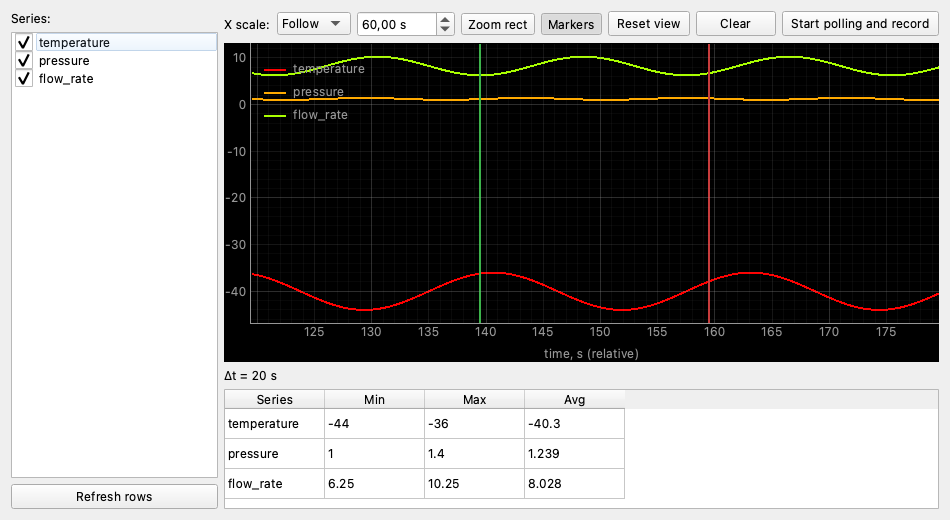
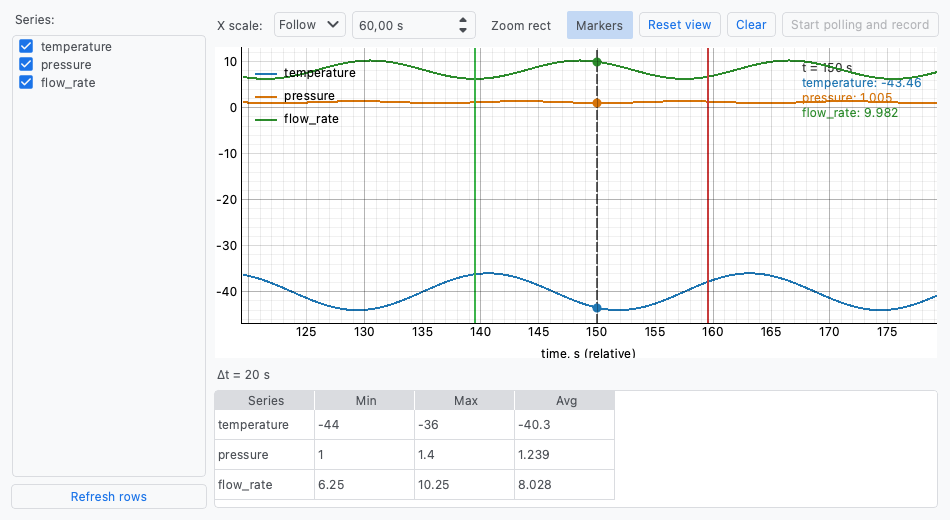
Refresh the screenshots for the themed UI with dark variants

diff --git a/README.md b/README.md
@@ -57,15 +57,21 @@ all Modbus logic runs in a separate thread (QThread), so the GUI never freezes.
 
 ## Screenshots
 
-Main window — two connection tabs, register table with read values and
-per-row trend sparklines, log:
+Main window (light and dark themes — the View menu switches them) — two
+connection tabs, register table with read values and per-row trend
+sparklines, log:
 
-![Main window](docs/screenshots/main_window.png)
+![Main window, light theme](docs/screenshots/main_window.png)
+
+![Main window, dark theme](docs/screenshots/main_window_dark.png)
 
 Live graph — multiple series in a follow window, zoom and draggable markers
-with per-series min/max/avg (the "Graph…" button in the connection panel):
+with per-series min/max/avg (the "Graph…" button in the connection panel);
+light and dark themes:
 
-![Live graph](docs/screenshots/graph_window.png)
+![Live graph, light theme](docs/screenshots/graph_window.png)
+
+![Live graph, dark theme](docs/screenshots/graph_window_dark.png)
 
 Per-row display settings — Scale/Offset/Unit and a byte-order override per
 register row (the "Display…" button above the table):
